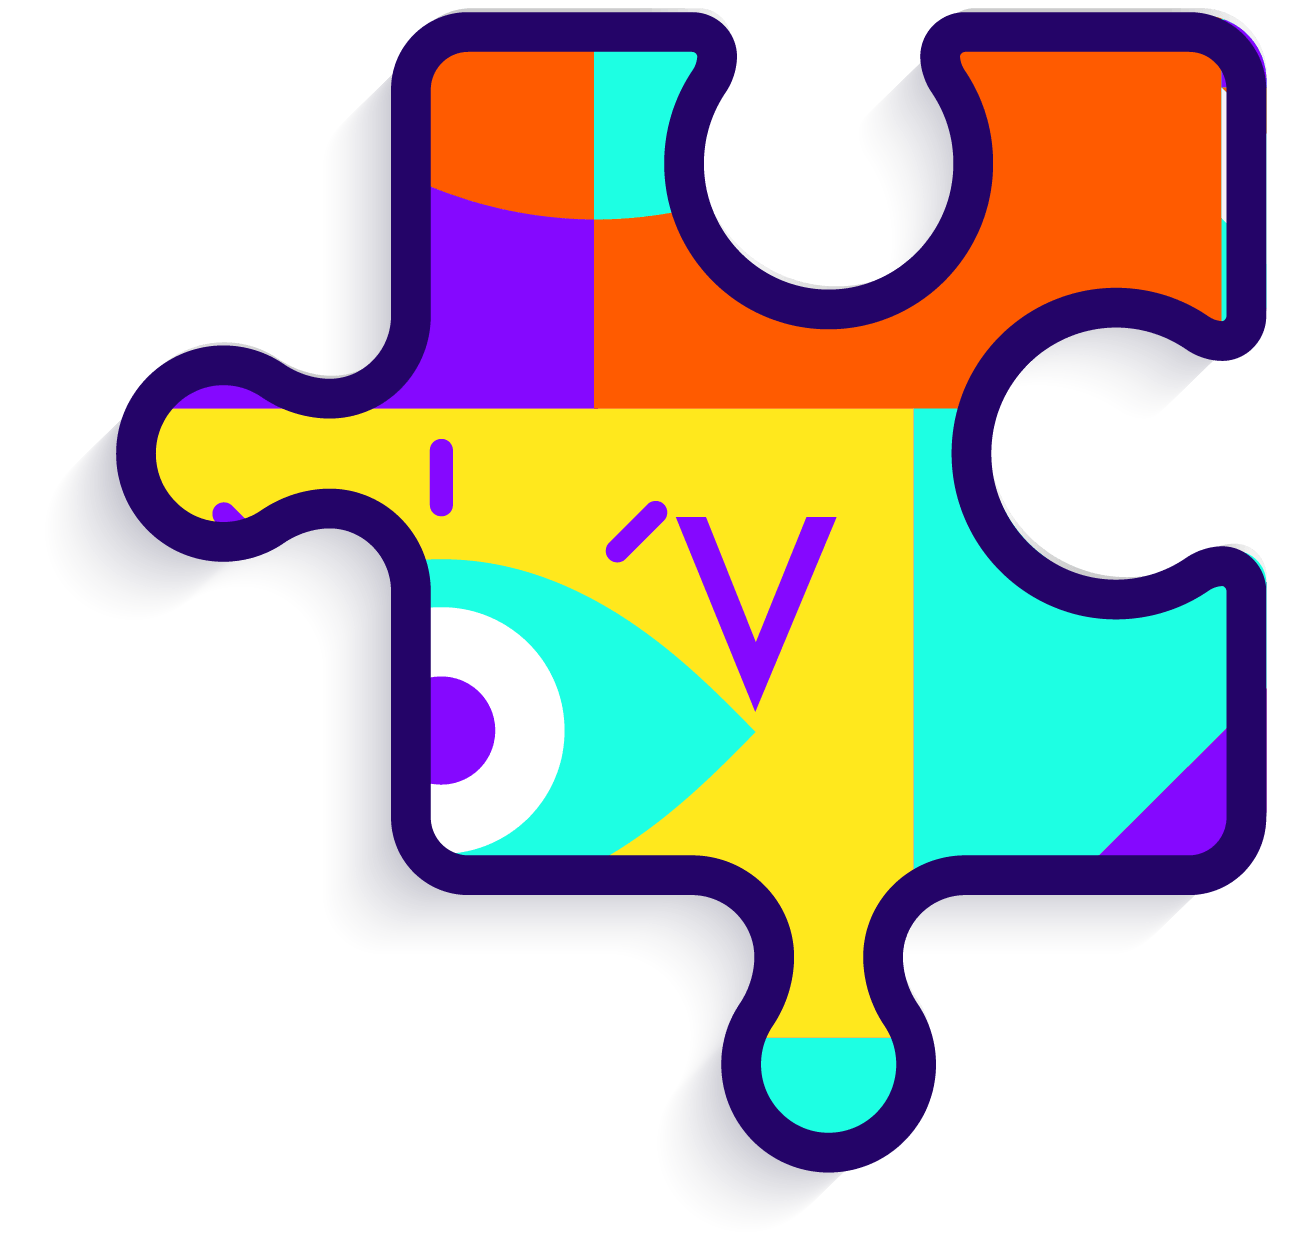
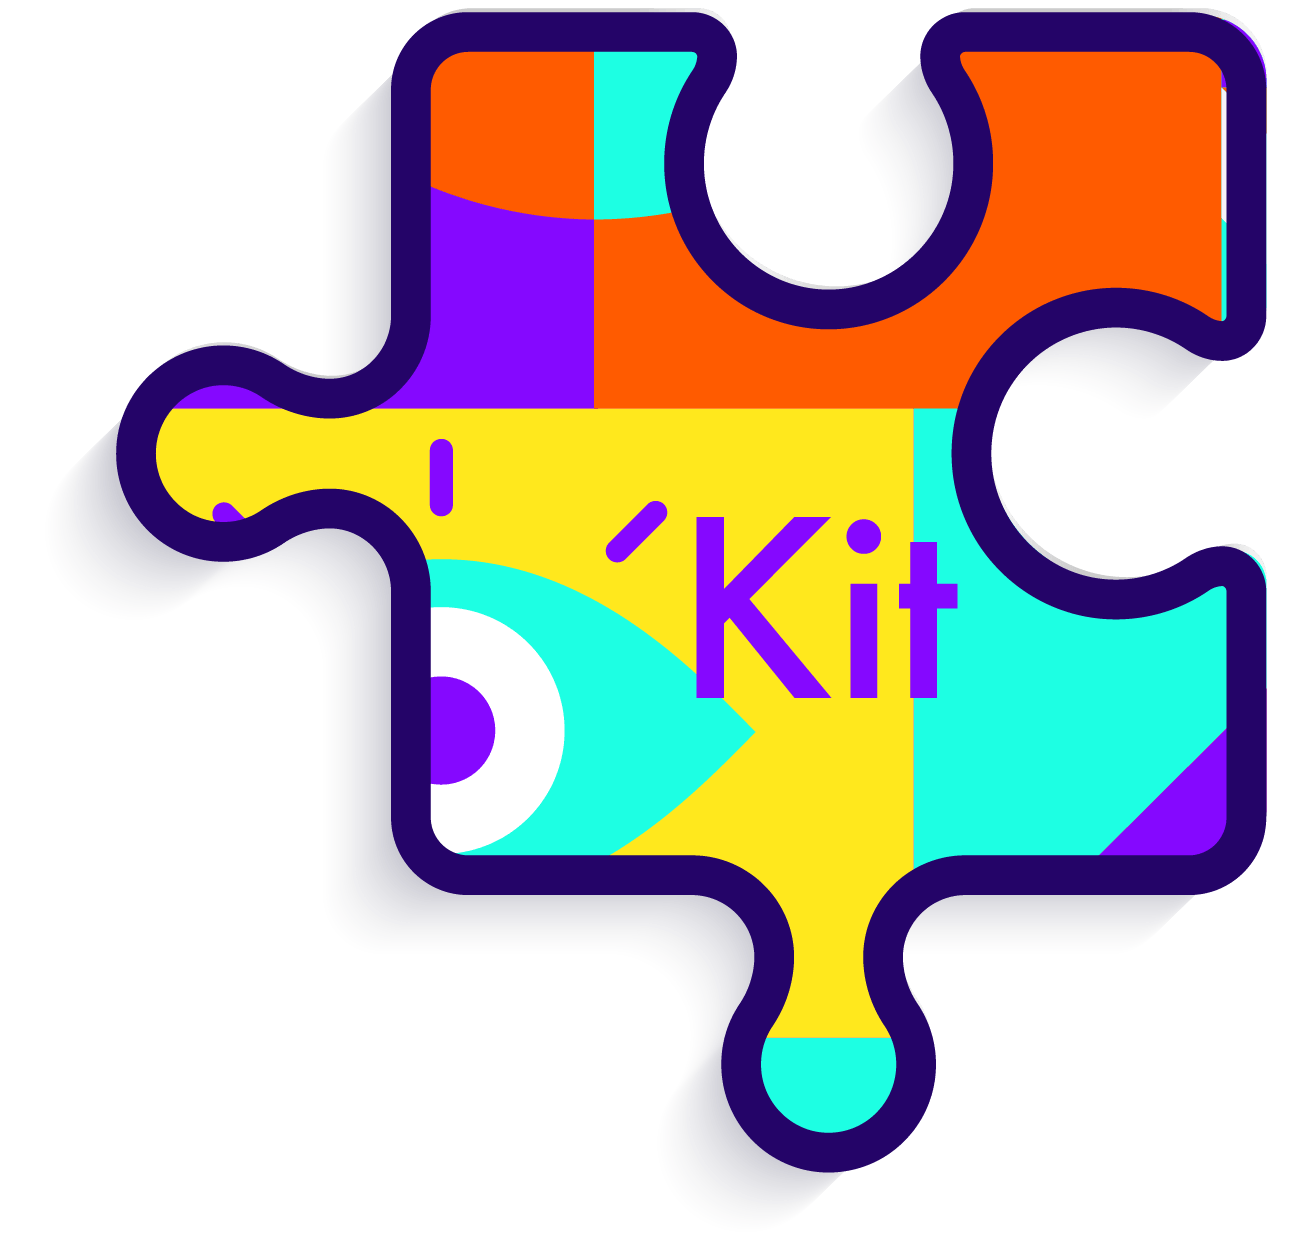
Actualización - KIT

Changed region(s): [[0.5247, 0.3971, 0.7407, 0.5804]]

diff --git a/maloka.php b/maloka.php
@@ -18,40 +18,40 @@ $chat = $interfaz->con_chat();
 
 
 $ordenes = [
-    "1" => "0",
-    "2" => "4",
-    "3" => "6",
-    "4" => "13",
-    "5" => "3",
-    "6" => "7",
-    "7" => "14",
-    "8" => "9",
-    "9" => "2",
-    "10" => "11",
-    "11" => "1",
-    "12" => "10",
-    "13" => "12",
-    "14" => "5",
-    "15" => "8"
+	"1" => "0",
+	"2" => "4",
+	"3" => "6",
+	"4" => "13",
+	"5" => "3",
+	"6" => "7",
+	"7" => "14",
+	"8" => "9",
+	"9" => "2",
+	"10" => "11",
+	"11" => "1",
+	"12" => "10",
+	"13" => "12",
+	"14" => "5",
+	"15" => "8"
 ];
 
 $semanas = [
-    "0" => ["0", "1"],
-    "1" => ["0", "1"],
-    "2" => "2",
-    "3" => "3",
-    "4" => "4",
-    "5" => "5",
-    "6" => "6",
-    "7" => "7",
-    "8" => "8",
-    "9" => "9",
-    "10" => "10",
-    "11" => "11",
-    "12" => "12",
-    "13" => "13",
-    "14" => "14",
-    "15" => "15"
+	"0" => ["0", "1"],
+	"1" => ["0", "1"],
+	"2" => "2",
+	"3" => "3",
+	"4" => "4",
+	"5" => "5",
+	"6" => "6",
+	"7" => "7",
+	"8" => "8",
+	"9" => "9",
+	"10" => "10",
+	"11" => "11",
+	"12" => "12",
+	"13" => "13",
+	"14" => "14",
+	"15" => "15"
 ];
 
 $fecha_now = date("Y-m-d H:i:s");
@@ -115,46 +115,42 @@ echo "</pre>";
 						$aux = 0;
 						$salto = 0;
 						foreach ($ordenes as $orden => $sec) {
-								if ($salto == 5) {
-									?>
-									<div class="col-md-1 col-sm-12">
-										<br>
-									</div>
-									<div class="col-md-1 col-sm-12">
-										<br>
-									</div>
-									<?php
-									$salto = 0; 
-								}
-
-								if ($sec < $sem) {
-									$est = "N";
-									$clase = "open_contenido"; 
-								}
-								if ($sec == $sem) {
-									$est = "A";
-									$clase = "open_contenido pulse"; 
-								}
-								if ($sec > $sem) {
-									$est = "I";
-									$clase = ""; 
-								}
-								/*
-								$pasado = "N";
-								$activo = "A";
-								$inactivo = "I";
-								*/
+							if ($salto == 5) {
 								?>
-								<div class="ficha col-md-2 col-sm-12">
-									<a id="maloka_sem_<?= $sec ?>" class="<?= $clase ?>" recurso="<?= $secciones[$sec]['seccion'] ?>">
-										<img id="maloka_img_<?= $sec ?>" src="../interfaz_maloka/imgs/SEM<?= $sec ?>_<?= $est ?>.png" width="100%">   
-									</a>
+								<div class="col-md-1 col-sm-12">
+									<br>
+								</div>
+								<div class="col-md-1 col-sm-12">
+									<br>
 								</div>
 								<?php
+								$salto = 0; 
+							}
+
+							if ($sec < $sem || $sec == "14") {
+								$est = "N";
+								$clase = "open_contenido"; 
+							}
+							else if ($sec == $sem) {
+								$est = "A";
+								$clase = "open_contenido pulse"; 
+							}
+							else if ($sec > $sem) {
+								$est = "I";
+								$clase = ""; 
+							}
+
+							?>
+							<div class="ficha col-md-2 col-sm-12">
+								<a id="maloka_sem_<?= $sec ?>" class="<?= $clase ?>" recurso="<?= $secciones[$sec]['seccion'] ?>">
+									<img id="maloka_img_<?= $sec ?>" src="../interfaz_maloka/imgs/SEM<?= $sec ?>_<?= $est ?>.png" width="100%">   
+								</a>
+							</div>
+							<?php
 							$salto++;
 						}
 						?>
-						
+
 						<div class="col-md-1 col-sm-12">
 							<br>
 						</div>
@@ -170,7 +166,7 @@ echo "</pre>";
 					?>
 					<div id="<?= $seccion['seccion'] ?>" class="capitulos ocultar <?= "cap_".$aux_sec ?>" >
 						<div class="row">
-						<a href="#!" class="regresa_dash"><h5><b> &larr; Volver al inicio</b></h5></a>
+							<a href="#!" class="regresa_dash"><h5><b> &larr; Volver al inicio</b></h5></a>
 						</div>
 						<center><h2><?= $seccion['nombre'] ?></h2></center>
 
@@ -198,7 +194,7 @@ echo "</pre>";
 								?>
 							</div>
 							<div class="list_enlaces col-md-4">
-								
+
 								<h4>Foros</h4>
 								<?php
 								foreach ($forum as $enlace) {
@@ -216,8 +212,8 @@ echo "</pre>";
 												<a href="<?= $enlace['enlace'] ?>" target="_blank">
 													<center>
 														<h2>
-														<img align="left" class="maloka_icon" src="../interfaz_maloka/imgs/preguntas.png">
-														<?= $enlace['nombre'] ?>		
+															<img align="left" class="maloka_icon" src="../interfaz_maloka/imgs/preguntas.png">
+															<?= $enlace['nombre'] ?>		
 														</h2>
 													</center>
 												</a>
@@ -233,8 +229,8 @@ echo "</pre>";
 												<a href="<?= $enlace['enlace'] ?>" target="_blank">
 													<center>
 														<h2>
-														<img align="left" class="maloka_icon" src="../interfaz_maloka/imgs/experiencias.png">
-														<?= $enlace['nombre'] ?>		
+															<img align="left" class="maloka_icon" src="../interfaz_maloka/imgs/experiencias.png">
+															<?= $enlace['nombre'] ?>		
 														</h2>
 													</center>
 												</a>
@@ -254,8 +250,8 @@ echo "</pre>";
 											<a href="<?= $enlace['enlace'] ?>" target="_blank">
 												<center>
 													<h2>
-													<img align="left" class="maloka_icon" src="../interfaz_maloka/imgs/maloka_chat.png">
-													<?= $enlace['nombre'] ?>
+														<img align="left" class="maloka_icon" src="../interfaz_maloka/imgs/maloka_chat.png">
+														<?= $enlace['nombre'] ?>
 													</h2>
 												</center>
 											</a>
@@ -277,8 +273,8 @@ echo "</pre>";
 												<a href="<?= $enlace['enlace'] ?>" target="_blank">
 													<center>
 														<h2>
-														<img align="left" class="maloka_icon" src="../interfaz_maloka/imgs/zoom.png">
-														<?= $enlace['nombre'] ?>		
+															<img align="left" class="maloka_icon" src="../interfaz_maloka/imgs/zoom.png">
+															<?= $enlace['nombre'] ?>		
 														</h2>
 													</center>
 												</a>
